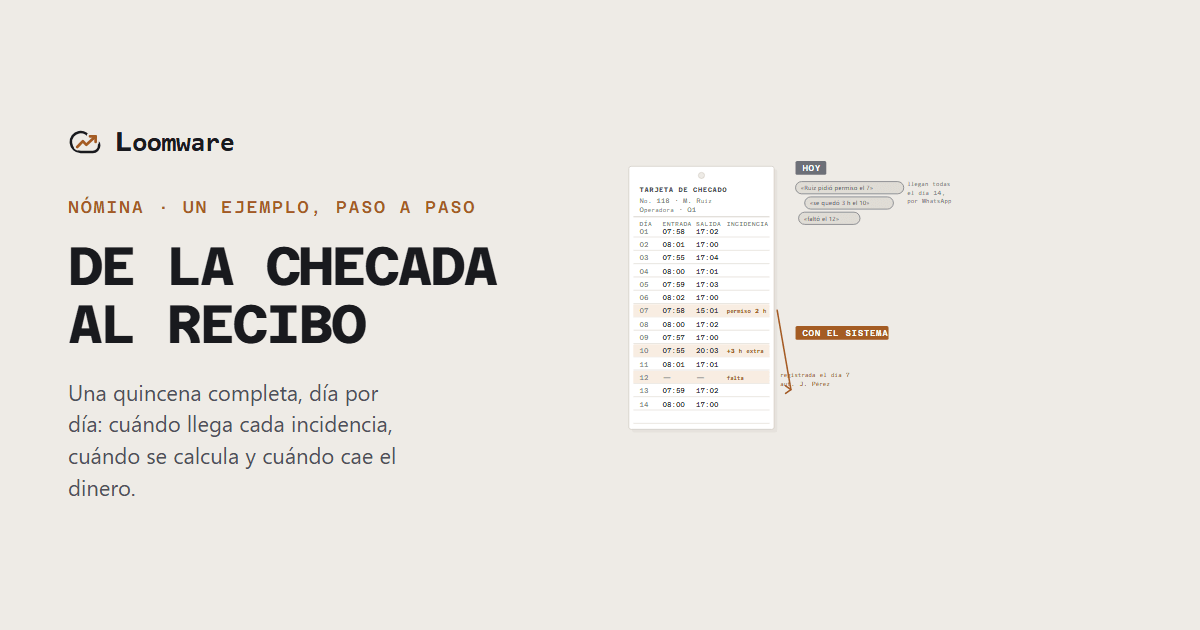
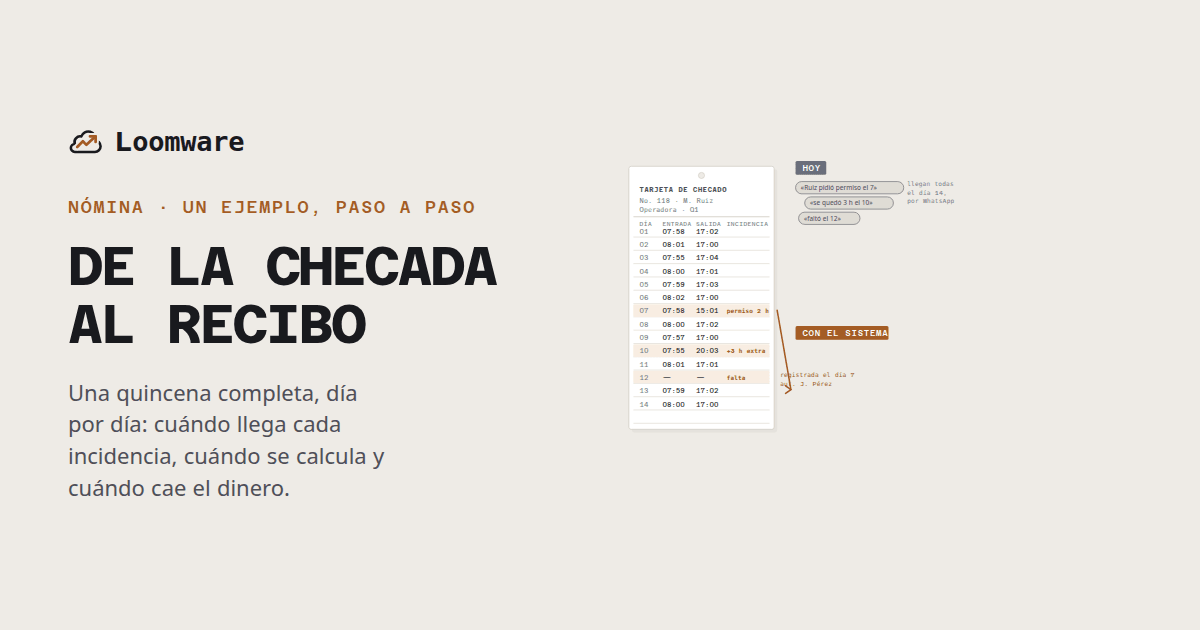
Corregir lo que encontró la revisión del PR #4
El recorrido del ERP vuelve a cobrar el diagnóstico y la nube de cuatro
lóbulos llega al 404, al hero y a las tarjetas de los recorridos. La CSP deja
pasar el video de YouTube y el proxy del DENUE rechaza «.» y «..» en la ruta.

diff --git a/tests/denue.test.js b/tests/denue.test.js
@@ -1,0 +1,44 @@
+// Vive fuera de functions/: Cloudflare Pages convierte en ruta cada archivo de esa carpeta.
+import { afterEach, beforeEach, describe, expect, it, vi } from 'vitest'
+import { onRequestGet } from '../functions/api/denue/[[path]]'
+
+// El INEGI es el único límite externo: se simula y se revisa a qué URL se le pidió.
+let pedida
+beforeEach(() => {
+  pedida = null
+  vi.stubGlobal('fetch', vi.fn(async (url) => {
+    pedida = url
+    return new Response('[]', { status: 200 })
+  }))
+})
+afterEach(() => vi.unstubAllGlobals())
+
+const ENV = { DENUE_TOKEN: 'token-prueba', PROSPECT_KEY: 'clave-prueba' }
+const consultar = (path, clave = 'clave-prueba') =>
+  onRequestGet({
+    request: new Request('https://loomware.com.mx/api/denue', { headers: { 'x-prospect-key': clave } }),
+    env: ENV,
+    params: { path },
+  })
+
+describe('proxy del DENUE', () => {
+  it('agrega el token al final y deja pasar la coma de las coordenadas', async () => {
+    const res = await consultar(['Buscar', 'todos', '19.43,-99.13', '500'])
+    expect(res.status).toBe(200)
+    expect(pedida).toBe(
+      'https://www.inegi.org.mx/app/api/denue/v1/consulta/Buscar/todos/19.43,-99.13/500/token-prueba',
+    )
+  })
+
+  it('pide la contraseña', async () => {
+    const res = await consultar(['Buscar', 'todos'], 'otra')
+    expect(res.status).toBe(401)
+    expect(pedida).toBeNull()
+  })
+
+  it.each([['..'], ['.']])('no deja salir de la API con un segmento «%s»', async (seg) => {
+    const res = await consultar(['Ficha', seg, seg, 'app', 'otra'])
+    expect(res.status).toBe(400)
+    expect(pedida).toBeNull()
+  })
+})

diff --git a/public/recorridos/erp.html b/public/recorridos/erp.html
@@ -890,8 +890,8 @@
           Cada sistema se hace a la medida, así que el número depende de lo que tú necesites
           —sirve igual para un consultorio de una persona que para una fábrica de cien—.
           Y nadie empieza con todo: se arranca por el área que más te duele, que es la parte
-          más chica. <b>El diagnóstico no tiene costo y termina con un precio cerrado por
-          escrito</b>: ese trabajo, ese precio. Si después quieres más, se cotiza aparte y lo
+          más chica. La primera llamada no tiene costo; <b>el diagnóstico se cobra a precio
+          competitivo y termina con un precio cerrado por escrito</b>: ese trabajo, ese precio. Si después quieres más, se cotiza aparte y lo
           apruebas tú. Y si el número no te cuadra, ahí se queda.</span></li>
       <li><b>¿Tengo que parar la operación?</b>
         <span>No. Arranca por partes y trabaja al mismo tiempo que lo que usas hoy, hasta

diff --git a/recorridos-fuente/erp.html b/recorridos-fuente/erp.html
@@ -839,8 +839,8 @@
           Cada sistema se hace a la medida, así que el número depende de lo que tú necesites
           —sirve igual para un consultorio de una persona que para una fábrica de cien—.
           Y nadie empieza con todo: se arranca por el área que más te duele, que es la parte
-          más chica. <b>El diagnóstico no tiene costo y termina con un precio cerrado por
-          escrito</b>: ese trabajo, ese precio. Si después quieres más, se cotiza aparte y lo
+          más chica. La primera llamada no tiene costo; <b>el diagnóstico se cobra a precio
+          competitivo y termina con un precio cerrado por escrito</b>: ese trabajo, ese precio. Si después quieres más, se cotiza aparte y lo
           apruebas tú. Y si el número no te cuadra, ahí se queda.</span></li>
       <li><b>¿Tengo que parar la operación?</b>
         <span>No. Arranca por partes y trabaja al mismo tiempo que lo que usas hoy, hasta

diff --git a/scripts/hero-sistema.js b/scripts/hero-sistema.js
@@ -120,7 +120,7 @@ const caja = (x, y, w, h, o = {}) =>
 /* La marca, dibujada como en el logotipo del sitio. */
 const marca = (x, y, e) =>
   `<g transform="translate(${x} ${y}) scale(${e})">` +
-  `<path d="M17.5 19H9a7 7 0 1 1 6.71-9h1.79a4.5 4.5 0 1 1 0 9Z" fill="none" stroke="${C.tinta}" stroke-width="1.8" stroke-linejoin="round"/>` +
+  `<path d="M19 19H4.8a2.8 2.8 0 1 1 .05-5.6 4 4 0 0 1 4.58-5.31A5 5 0 0 1 19 11a4 4 0 0 1 0 8Z" fill="none" stroke="${C.tinta}" stroke-width="1.8" stroke-linejoin="round"/>` +
   `<path d="M6.5 15.5 10.5 11.5l2.5 2.5L19.5 8" fill="none" stroke="${C.morado}" stroke-width="2" stroke-linecap="round" stroke-linejoin="round"/>` +
   `<path d="M15.5 8h4v4" fill="none" stroke="${C.morado}" stroke-width="2" stroke-linecap="round" stroke-linejoin="round"/>` +
   '</g>'

diff --git a/public/404.html b/public/404.html
@@ -70,7 +70,7 @@
     <a class="marca" href="/">
       <svg width="30" height="30" viewBox="0 0 24 24" fill="none"
            stroke-linecap="round" stroke-linejoin="round" aria-hidden="true" focusable="false">
-        <path d="M17.5 19H9a7 7 0 1 1 6.71-9h1.79a4.5 4.5 0 1 1 0 9Z" stroke="#0b1739" stroke-width="1.8"/>
+        <path d="M19 19H4.8a2.8 2.8 0 1 1 .05-5.6 4 4 0 0 1 4.58-5.31A5 5 0 0 1 19 11a4 4 0 0 1 0 8Z" stroke="#0b1739" stroke-width="1.8"/>
         <path d="M6.5 15.5 10.5 11.5l2.5 2.5L19.5 8" stroke="#f5f3ef" stroke-width="4.6"/>
         <path d="M15.5 8h4v4" stroke="#f5f3ef" stroke-width="4.6"/>
         <path d="M6.5 15.5 10.5 11.5l2.5 2.5L19.5 8" stroke="#5326d9" stroke-width="1.9"/>

diff --git a/scripts/og-recorridos.js b/scripts/og-recorridos.js
@@ -70,7 +70,7 @@ function pagina({ titulo, resumen, lbl, escena }) {
   <div class="marca">
     <svg width="34" height="34" viewBox="0 0 24 24" fill="none"
          stroke-linecap="round" stroke-linejoin="round">
-      <path d="M17.5 19H9a7 7 0 1 1 6.71-9h1.79a4.5 4.5 0 1 1 0 9Z" stroke="#191A1E" stroke-width="1.8"/>
+      <path d="M19 19H4.8a2.8 2.8 0 1 1 .05-5.6 4 4 0 0 1 4.58-5.31A5 5 0 0 1 19 11a4 4 0 0 1 0 8Z" stroke="#191A1E" stroke-width="1.8"/>
       <path d="M6.5 15.5 10.5 11.5l2.5 2.5L19.5 8" stroke="#EEEBE6" stroke-width="4.6"/>
       <path d="M15.5 8h4v4" stroke="#EEEBE6" stroke-width="4.6"/>
       <path d="M6.5 15.5 10.5 11.5l2.5 2.5L19.5 8" stroke="#A35C23" stroke-width="1.9"/>

diff --git a/functions/api/denue/[[path]].js b/functions/api/denue/[[path]].js
@@ -45,6 +45,9 @@ export async function onRequestGet({ request, env, params }) {
 
   const path = Array.isArray(params.path) ? params.path : [params.path]
   if (!METHODS.has(path[0])) return json({ error: 'Método DENUE no permitido' }, 400)
+  // encodeURIComponent deja «.» y «..» como están, y fetch los resuelve: la
+  // petición saldría de la API hacia otra ruta del INEGI con el token al final.
+  if (path.some((s) => s === '.' || s === '..')) return json({ error: 'Ruta no permitida' }, 400)
 
   const url = `${INEGI}/${path.map(segment).join('/')}/${env.DENUE_TOKEN}`
   const upstream = await fetch(url, { headers: { accept: 'application/json' } })

diff --git a/scripts/og-imagen.js b/scripts/og-imagen.js
@@ -1,7 +1,7 @@
 /*
  * Dibuja la tarjeta social (og-image.png, 1200×630) con el sistema actual:
  * papel cálido, etiqueta monoespaciada en cobre, titular en morado sólido y la
- * nave isométrica que también abre el sitio.
+ * ilustración de la operación (hero-operacion.svg).
  *
  *   npm run og:imagen           (necesita el sitio servido; BASE_URL si no es :4173)
  *

diff --git a/scripts/encabezados.js b/scripts/encabezados.js
@@ -68,6 +68,8 @@ const csp = [
   "style-src 'self' 'unsafe-inline'",
   `img-src 'self' data: ${GA}`,
   "font-src 'self'",
+  // El video de «Ver cómo funciona» (src/data/video.js): YouTube sin cookies.
+  'frame-src https://www.youtube-nocookie.com',
   `connect-src 'self' ${GTM} ${GA}`,
   "form-action 'self'",
   "frame-ancestors 'none'",

diff --git a/PENDIENTES.md b/PENDIENTES.md
@@ -86,6 +86,12 @@ responde 500 *«Falta configurar: DENUE_TOKEN, PROSPECT_KEY»* (lista todas las 
       degradado (2026-09-22). Actualizarlo en WhatsApp Business, firma de correo, tarjetas y
       plantillas de cotización. Vive en `src/components/Logo.jsx` y `public/favicon.svg`.
 
+- [ ] **Límite de intentos para `/prospectar`.** La Function compara la contraseña sin tope de
+      intentos y el repositorio es público, así que cualquiera sabe dónde probar. Se cierra sin
+      código: Cloudflare → Security → WAF → *Rate limiting rules*, una regla para la ruta
+      `/api/denue/` (por ejemplo, 10 peticiones por minuto por IP y bloqueo de 10 minutos).
+      Salió de la revisión del PR #4 (2026-09-26).
+
 - [ ] **Revisar lo que Alan cambió del 23 al 25 de septiembre**, antes de mezclar:
       1. **La sección de casos de éxito quedó rehecha** (`#casos`). El caso de Eduardo es el
          mismo, palabra por palabra; ahora va en tres bandas numeradas —quién es · 01 qué
